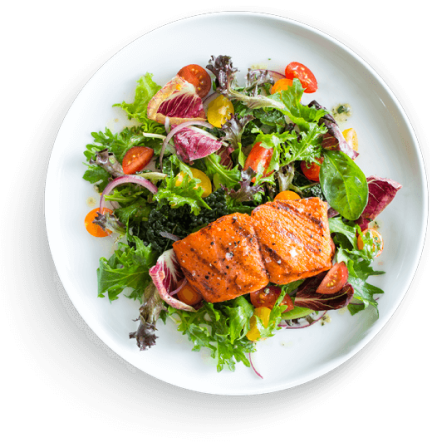
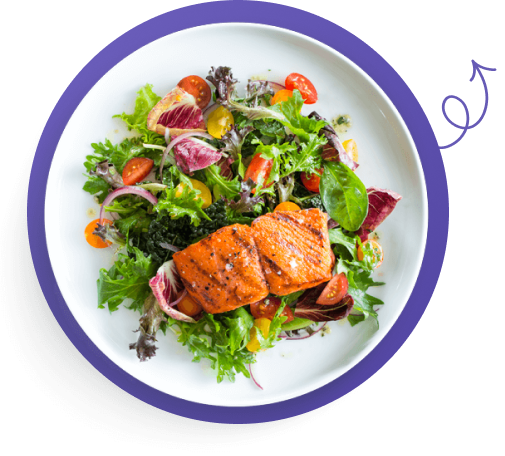
add first element on home-page

diff --git a/src/components/Enjoyleft.tsx b/src/components/Enjoyleft.tsx
@@ -1,0 +1,49 @@
+import Text from 'antd/es/typography/Text'
+import '../app/support.scss'
+import { BigTitle } from './BigTitle'
+import Paragraph from 'antd/es/typography/Paragraph'
+import { DoubleBtn } from './DoubleBtn'
+import Image from 'next/image'
+import { Flex } from 'antd'
+import { Rate } from 'antd'
+export const Enjoyleft = () => {
+	return (
+		<div>
+			<Text className='text-gray-500 opacity-80 leftLine ml-4'>
+				OVER 1000 USERS
+			</Text>
+			<BigTitle
+				size={75}
+				title='Enjoy Foods All Over The World'
+				wordSelect='World'
+			/>
+			<Paragraph className='w-[29rem] text-lg'>
+				EatLy help you set saving goals, earn cash back offers, Go to
+				disclaimer for more details and get paychecks up to two days
+				early. Get a <span className='text-primary'>$20 bonus.</span>
+			</Paragraph>
+			<div className='w-1/2'>
+				<div className='w-1/2 mt-20 mb-7'>
+					<DoubleBtn
+						firstBtn='Get Started'
+						secondBtn='Go Pro'
+					/>
+				</div>
+				<Flex justify='space-between'>
+					<Image
+						className='self-center'
+						src={'trustpilot.svg'}
+						alt='trustpilot'
+						width={123}
+						height={30}
+					/>
+					<Rate
+						className='self-end'
+						allowHalf
+					/>
+					<Text className='text-gray-500 self-end'>4900+</Text>
+				</Flex>
+			</div>
+		</div>
+	)
+}

diff --git a/src/shared/Header.tsx b/src/shared/Header.tsx
@@ -1,9 +1,10 @@
-import { Button, Flex } from 'antd'
+import { Flex } from 'antd'
 import Image from 'next/image'
 import { FC } from 'react'
 import { Container } from '../components/Container'
 import '../app/support.scss'
 import Link from 'next/link'
+import { DoubleBtn } from '../components/DoubleBtn'
 export const FooterHeaderLinks = [
 	{ title: 'Menu', link: 'menu' },
 	{ title: 'Blog', link: 'blog' },
@@ -11,7 +12,7 @@ export const FooterHeaderLinks = [
 ]
 export const Header: FC = () => {
 	return (
-		<header className='p-5 pt-10'>
+		<header className='p-5 pt-10 mb-24'>
 			<Container>
 				<nav>
 					<Flex
@@ -54,19 +55,10 @@ export const Header: FC = () => {
 								))}
 							</Flex>
 						</Flex>
-						<Flex
-							className='self-center'
-							component={'ul'}
-							justify='space-between'
-							gap={20}
-						>
-							<li>
-								<Button type='default' className='p-5 border-primary hover:border-opacity-80' >Login</Button>
-							</li>
-							<li>
-								<Button type='primary' className='bg-primary hover:bg-opacity-80 rounded-xl p-5'>Sign up</Button>
-							</li>
-						</Flex>
+						<DoubleBtn
+							firstBtn='Login'
+							secondBtn='Sign up'
+						/>
 					</Flex>
 				</nav>
 			</Container>

diff --git a/src/components/Enjoyrright.tsx b/src/components/Enjoyrright.tsx
@@ -1,0 +1,45 @@
+import Image from 'next/image'
+import './../app/support.scss'
+export const Enjoyrright = () => {
+	return (
+		<div className='relative'>
+			<Image
+				className='absolute right-14 -top-20 '
+				src={'/tree-wave.svg'}
+				alt='graf'
+				width={38}
+				sizes='100vh'
+				height={33}
+			/>
+			<Image
+				className='absolute right-16 -top-14 '
+				src={'/firstpng.png'}
+				alt='food'
+				width={320}
+				height={85}
+			/>
+			<Image
+				src={'/main_food.png'}
+				alt='food'
+				width={450}
+				height={470}
+			/>
+			<Image
+				className='absolute -left-16 -bottom-9 '
+				src={'/main_graf.png'}
+				alt='graf'
+				width={200}
+				sizes='100vh'
+				height={205}
+			/>
+			<Image
+				className='absolute -left-16 -bottom-9 '
+				src={'/tree-line.svg'}
+				alt='graf'
+				width={38}
+				sizes='100vh'
+				height={33}
+			/>
+		</div>
+	)
+}

diff --git a/src/components/DoubleBtn.tsx b/src/components/DoubleBtn.tsx
@@ -1,0 +1,33 @@
+import { Button, Flex } from 'antd'
+import { FC } from 'react'
+import { IDoubleBtn } from '../types/types'
+
+export const DoubleBtn: FC<IDoubleBtn> = ({ firstBtn, secondBtn }) => {
+	return (
+		<div>
+			<Flex
+				className='self-center'
+				component={'ul'}
+				justify='space-between'
+				gap={20}
+			>
+				<li>
+					<Button
+						type='default'
+						className='p-5 border-primary hover:border-opacity-80'
+					>
+						{firstBtn}
+					</Button>
+				</li>
+				<li>
+					<Button
+						type='primary'
+						className='bg-primary hover:bg-opacity-80 rounded-xl p-5'
+					>
+						{secondBtn}
+					</Button>
+				</li>
+			</Flex>
+		</div>
+	)
+}

diff --git a/src/components/BigTitle.tsx b/src/components/BigTitle.tsx
@@ -1,0 +1,24 @@
+import { FC } from 'react'
+import { IBigTitle } from '../types/types'
+import Title from 'antd/es/typography/Title'
+import clsx from 'clsx'
+
+export const BigTitle: FC<IBigTitle> = ({ title, wordSelect, size }) => {
+	const a = title.split(' ')
+	return (
+		<Title className='flex w-auto  text-3xl flex-wrap -ml-5'>
+			{a.map(item => (
+				<div key={item}>
+					<div
+					style={{fontSize:size }}
+						className={clsx(`mx-2 min-w-full min-h-24`, {
+							'text-primary': item === wordSelect,
+						})}
+					>
+						{item}
+					</div>
+				</div>
+			))}
+		</Title>
+	)
+}

diff --git a/src/app/layout.tsx b/src/app/layout.tsx
@@ -4,7 +4,7 @@ import './globals.scss'
 import { ReactNode } from 'react'
 import { Providers } from '../providers/Providers'
 import { Header } from '../shared/Header'
-import { Footer } from '../shared/Footer'
+// import { Footer } from '../shared/Footer'
 const montserrat = Montserrat({
 	subsets: ['latin'],
 	weight: ['400', '500', '700', '900'],
@@ -28,7 +28,7 @@ export default function RootLayout({
 				<Providers>
 					<Header />
 					{children}
-					<Footer />
+					{/* <Footer /> */}
 				</Providers>
 			</body>
 		</html>

diff --git a/src/shared/first/Stat.tsx b/src/shared/first/Stat.tsx
@@ -1,0 +1,22 @@
+import { Container } from '../../components/Container'
+// import { StatMyTItle } from '../../components/StatTItle'
+
+// const statData = []
+
+export const Stat = () => {
+	return (
+		<div
+			style={{
+				backgroundImage: 'url("BG-ping.png")',
+				backgroundRepeat: 'no-repeat',
+				backgroundSize: 'cover',
+				backgroundPosition: 'center',
+			}}
+			className='h-full'
+		>
+			<Container>
+				<div className='text-red-500'>g</div>
+			</Container>
+		</div>
+	)
+}

diff --git a/src/app/support.scss b/src/app/support.scss
@@ -1,13 +1,27 @@
 $gray: #cbcbcb;
 .downLine {
-    position: relative;
+	position: relative;
 	&::after {
 		content: '';
 		display: block;
 		position: absolute;
-        bottom: -30px;
+		bottom: -30px;
 		width: 100%;
 		height: 1px;
 		background-color: $gray;
 	}
 }
+.leftLine {
+	position: relative;
+	&::after {
+		content: '';
+		display: block;
+		position: absolute;
+		bottom: 40%;
+		right: 103%;
+		width: 10%;
+		height: 2px;
+		background-color: $gray;
+	}
+}
+

diff --git a/src/shared/first/Enjoy.tsx b/src/shared/first/Enjoy.tsx
@@ -1,0 +1,19 @@
+import { Col, Row } from 'antd'
+import { Enjoyleft } from '../../components/Enjoyleft'
+import { Enjoyrright } from '../../components/Enjoyrright'
+import { Container } from '../../components/Container'
+
+export const Enjoy = () => {
+	return (
+		<Container>
+			<Row align={'middle'}>
+				<Col span={12}>
+					<Enjoyleft />
+				</Col>
+				<Col span={10} offset={2} >
+					<Enjoyrright />
+				</Col>
+			</Row>
+		</Container>
+	)
+}

diff --git a/src/components/StatTItle.tsx b/src/components/StatTItle.tsx
@@ -1,0 +1,13 @@
+import Paragraph from 'antd/es/typography/Paragraph'
+import Title from 'antd/es/typography/Title'
+import { FC } from 'react'
+import { IStatTItle } from '../types/types'
+
+export const StatMyTItle:FC<IStatTItle> = ({title,paragraph}) => {
+	return (
+		<div>
+			<Title className='font-bold text-white'>{title}</Title>
+			<Paragraph className='text-gray-500'>{paragraph}</Paragraph>
+		</div>
+	)
+}

diff --git a/src/providers/Providers.tsx b/src/providers/Providers.tsx
@@ -132,7 +132,7 @@ export const Providers: FC<PropsWithChildren> = ({ children }) => {
 			<ConfigProvider
 				warning={{ strict: true }}
 				button={{ autoInsertSpace: true }}
-				typography={{ className: 'text-base ' }}
+				typography={{ className: 'text-base ', }}
 				wave={{ showEffect: showShakeEffect }}
 			>
 				<QueryClientProvider client={query}>

diff --git a/src/pages/Home.tsx b/src/pages/Home.tsx
@@ -1,9 +1,14 @@
 import { FC } from 'react'
+import { Enjoy } from '../shared/first/Enjoy'
+import { Stat } from '../shared/first/Stat'
 
 export const Home: FC = () => {
 	return (
 		<div className=''>
-			<main>{/* any content */}</main>
+			<main>
+				<Enjoy />
+				<Stat />
+			</main>
 		</div>
 	)
 }
